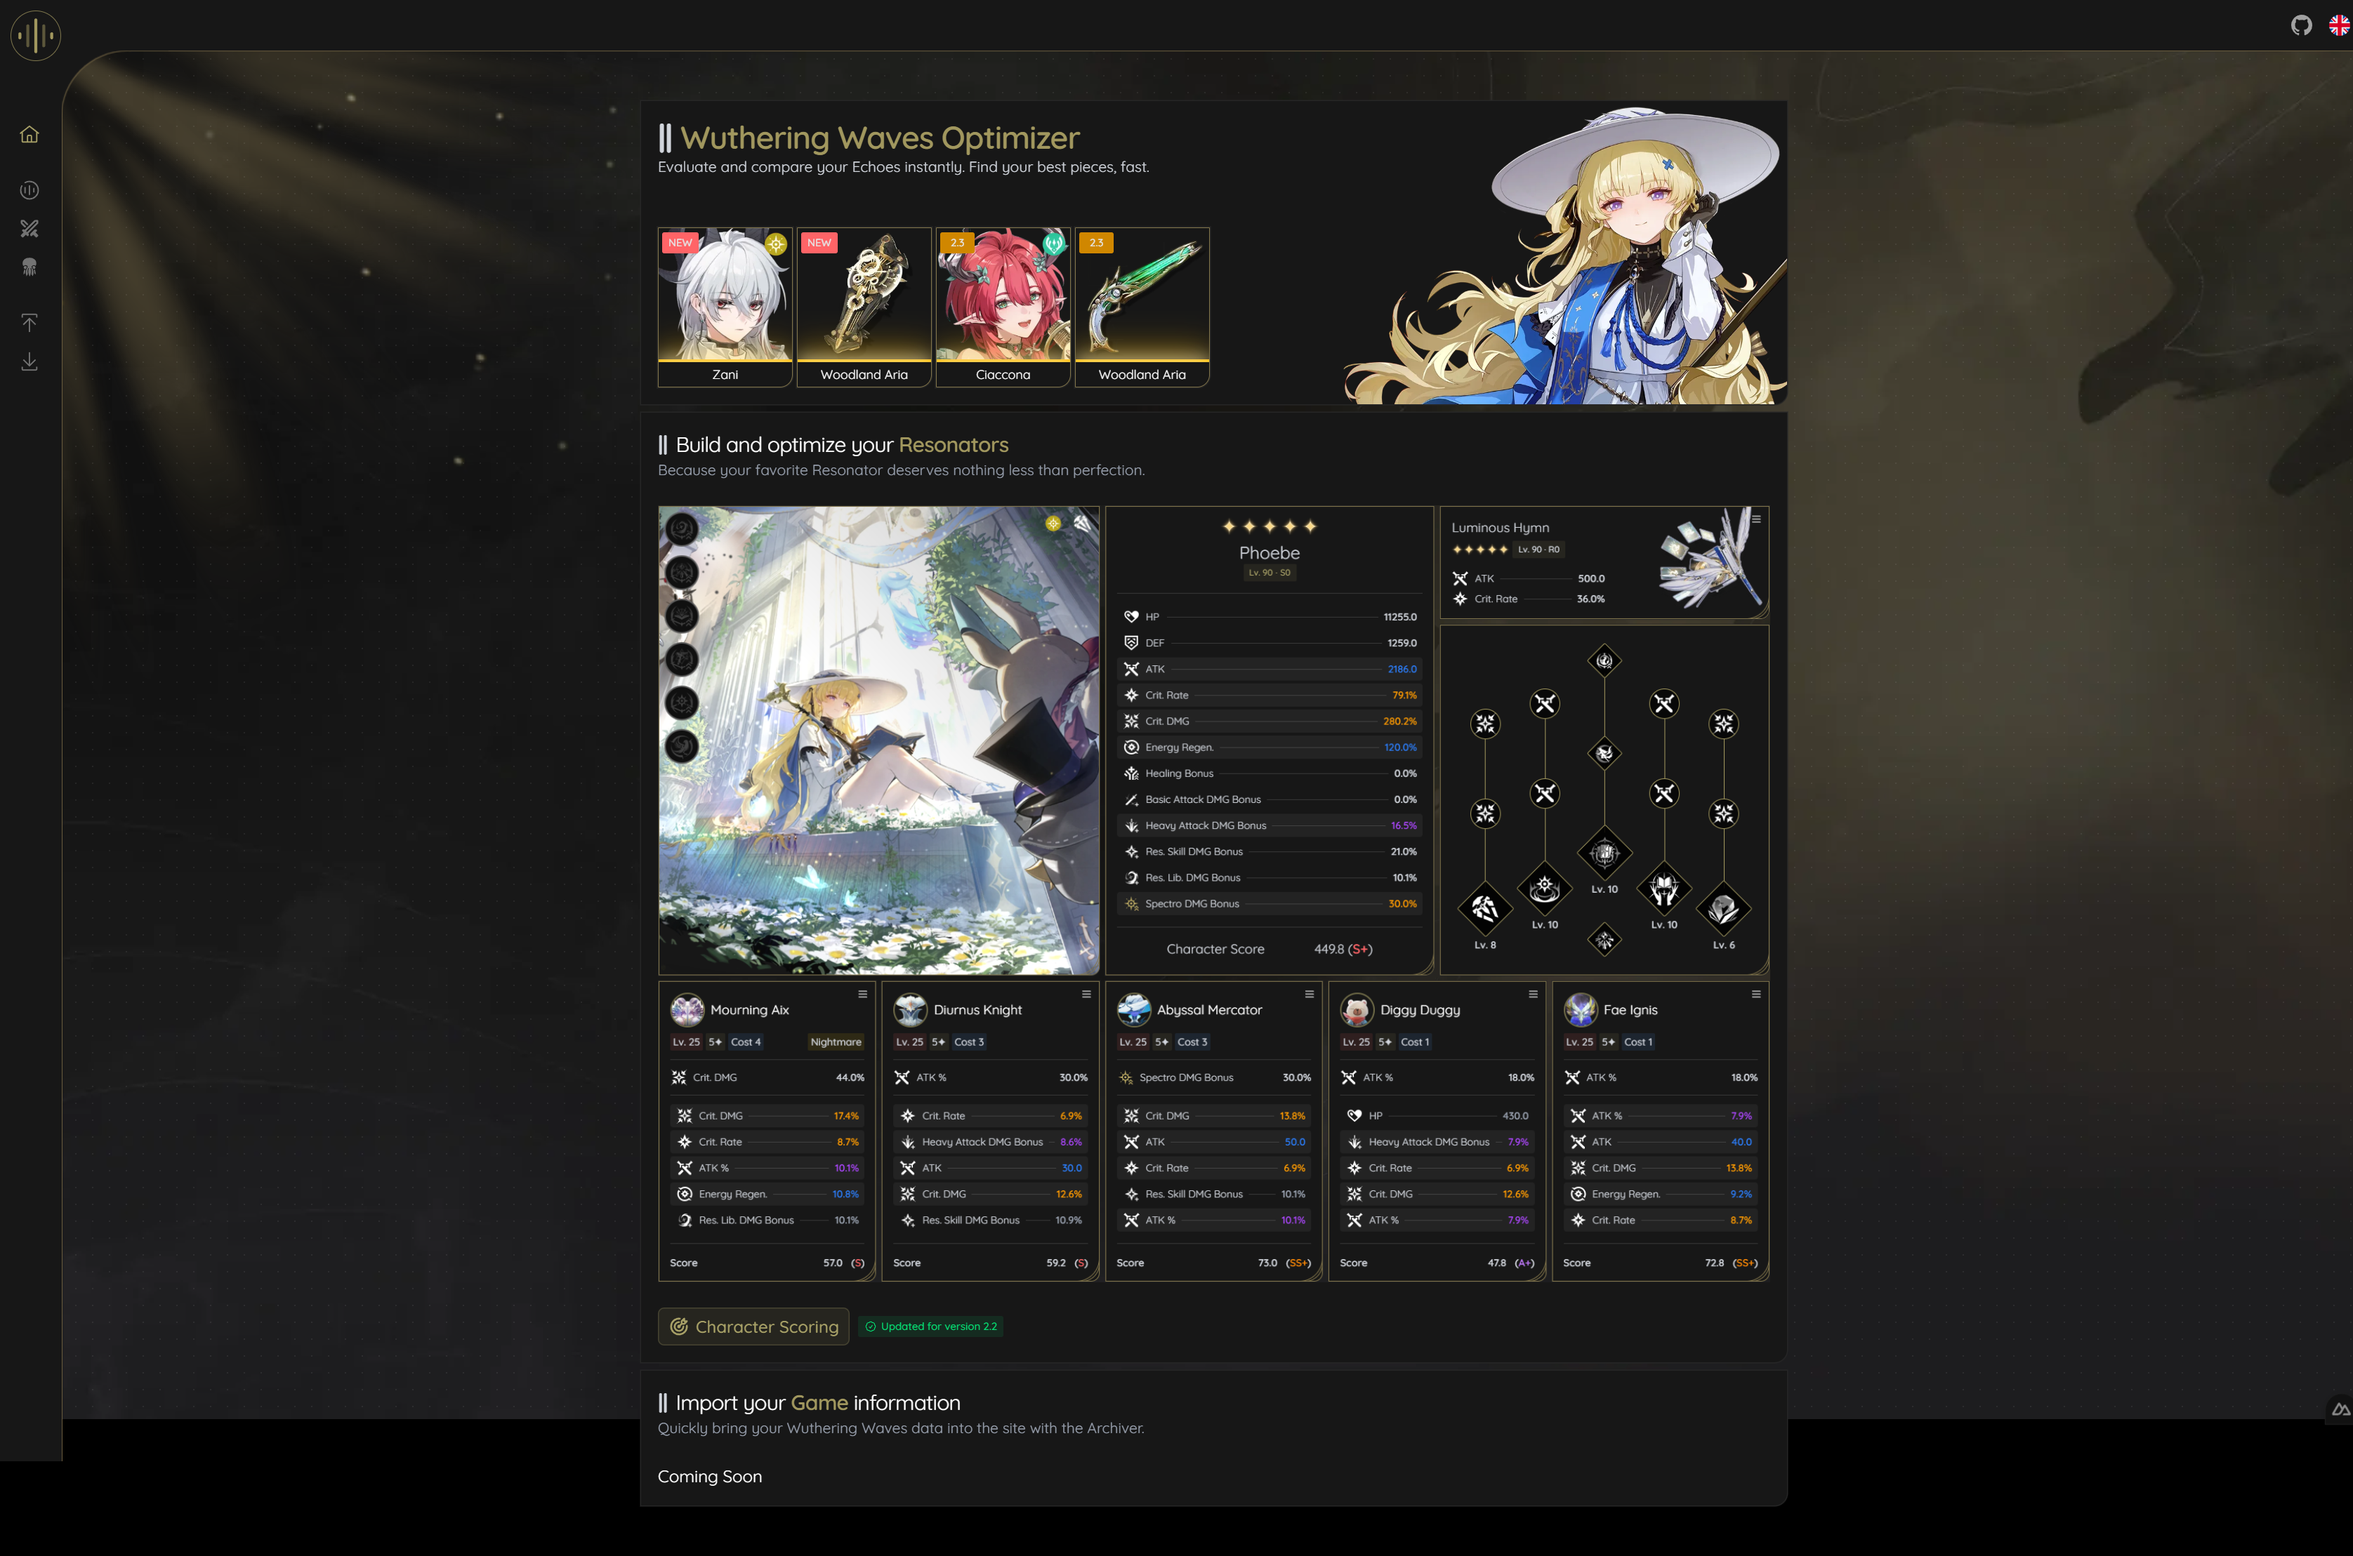
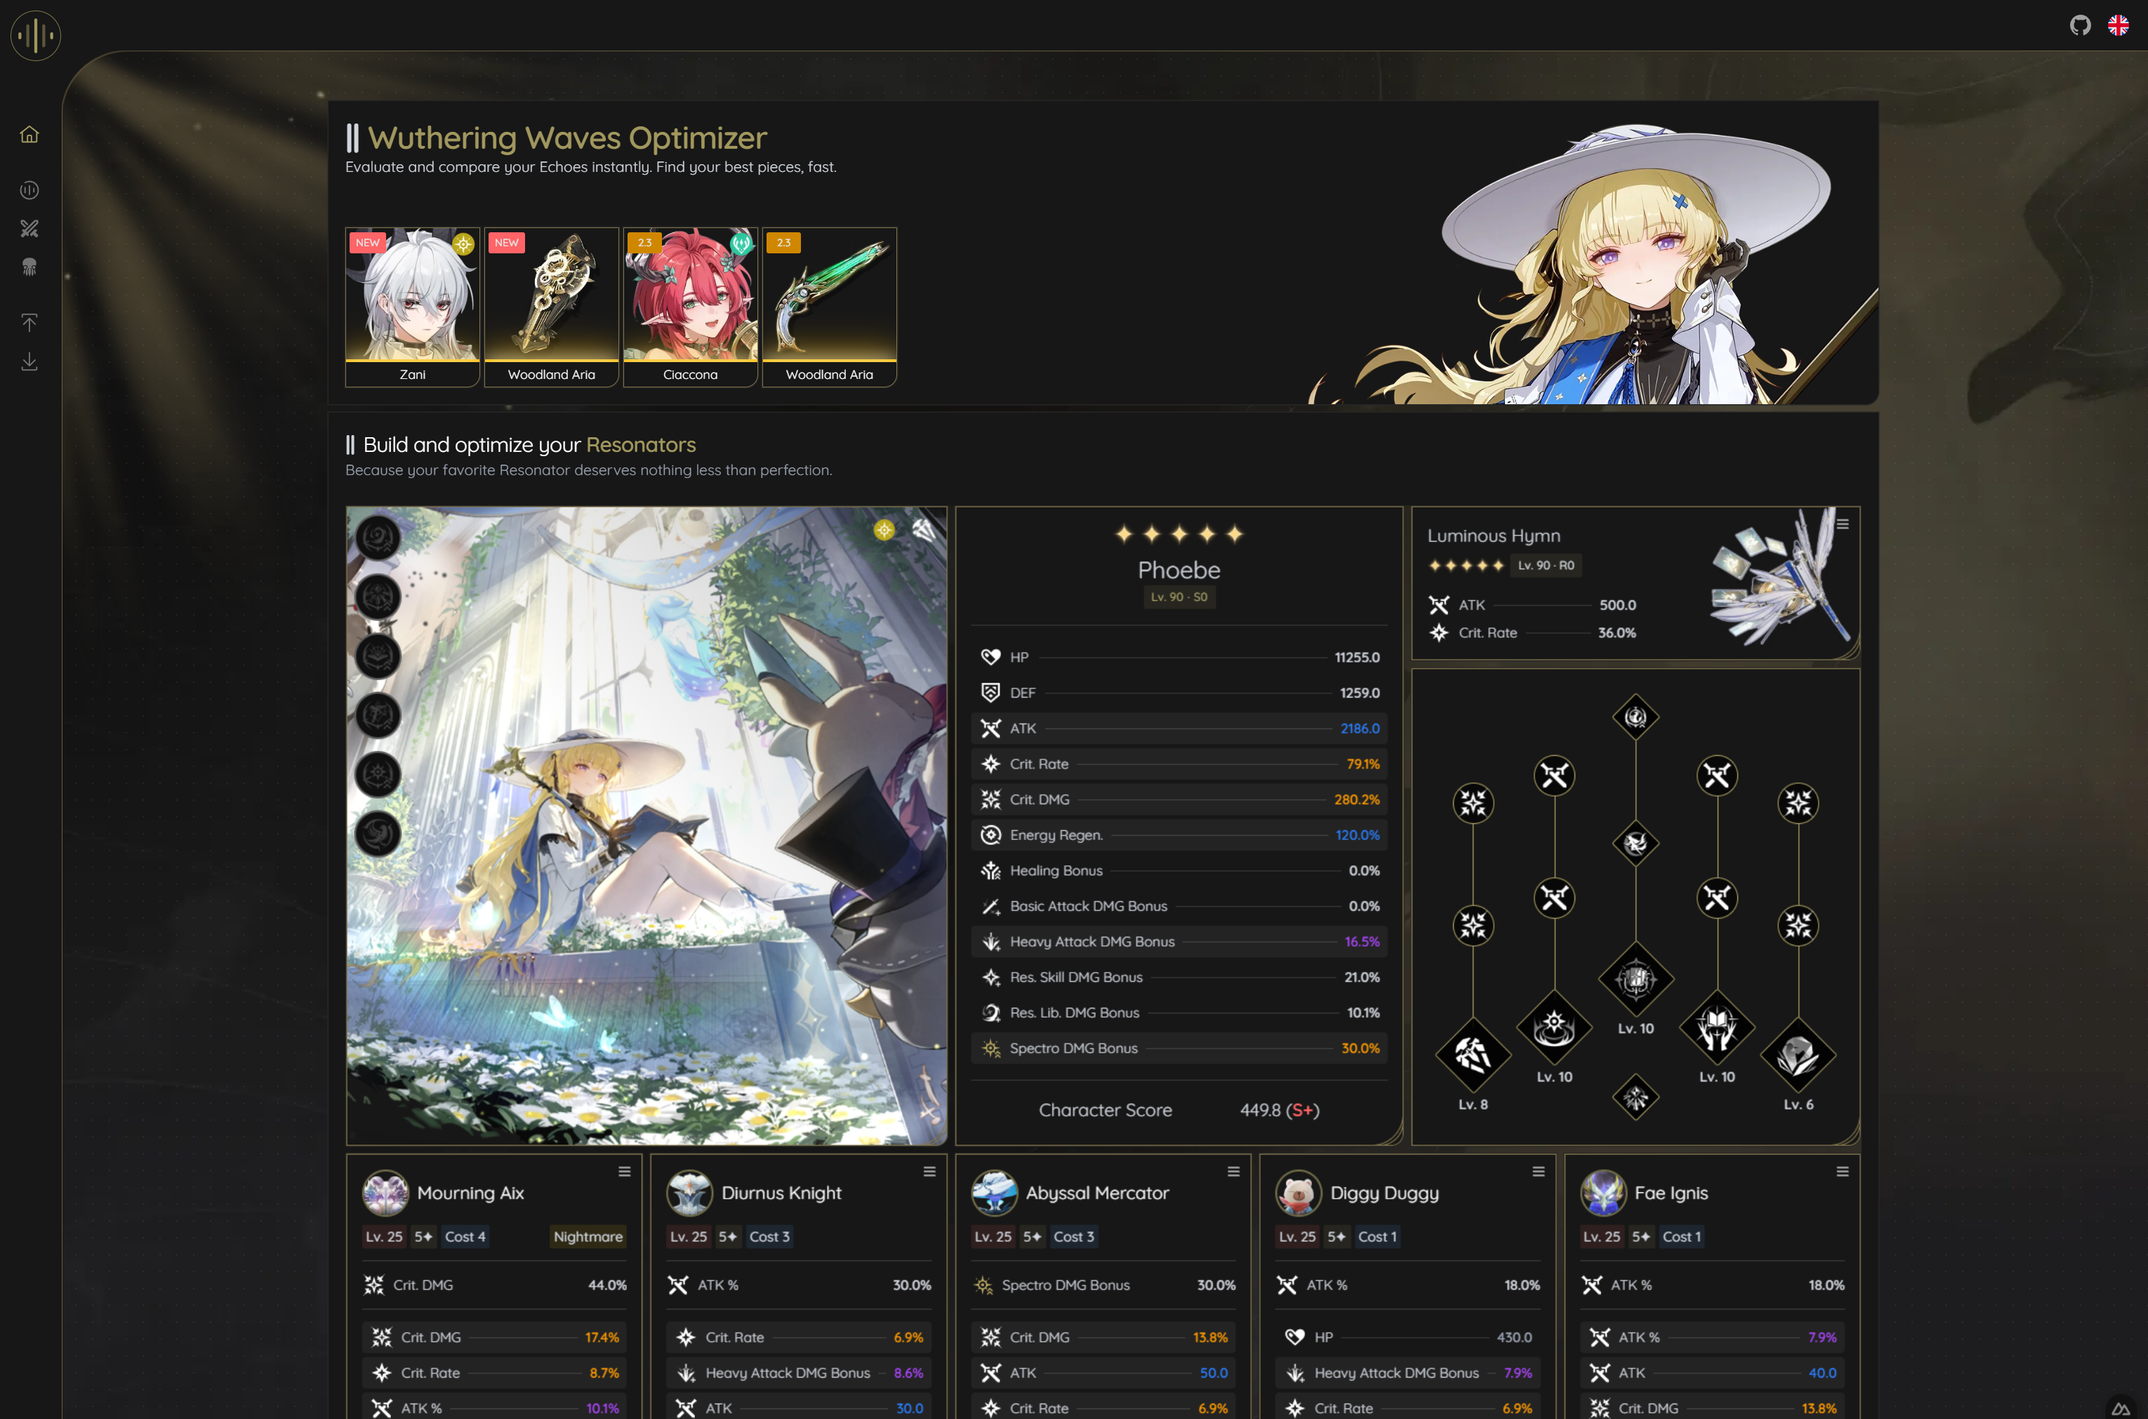
Change showcase image for readme

diff --git a/app/pages/index.vue b/app/pages/index.vue
@@ -22,7 +22,7 @@ const UpcomingWeapons = computed(() => TemplateWeapons.filter(x => x.ReleaseStat
 </script>
 
 <template>
-  <div class="grid grid-cols-6 mx-auto gap-2 mb-12 px-8 x:px-0 xl:max-w-6xl">
+  <div class="grid grid-cols-6 mx-auto gap-2 mb-12 px-8 x:px-0 xl:container">
     <UCard
       v-motion-pop
       :delay="50"
